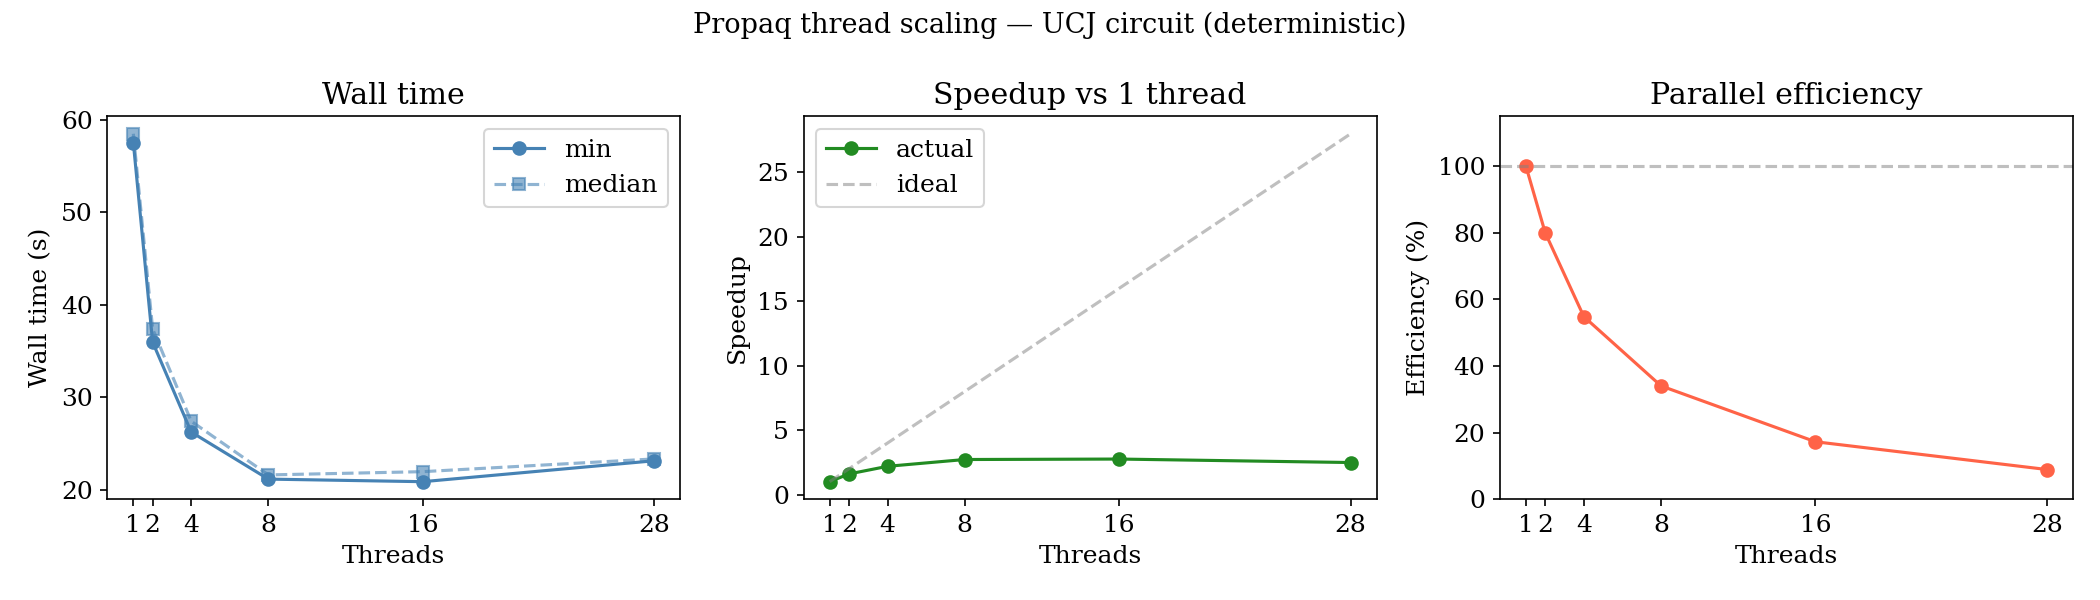
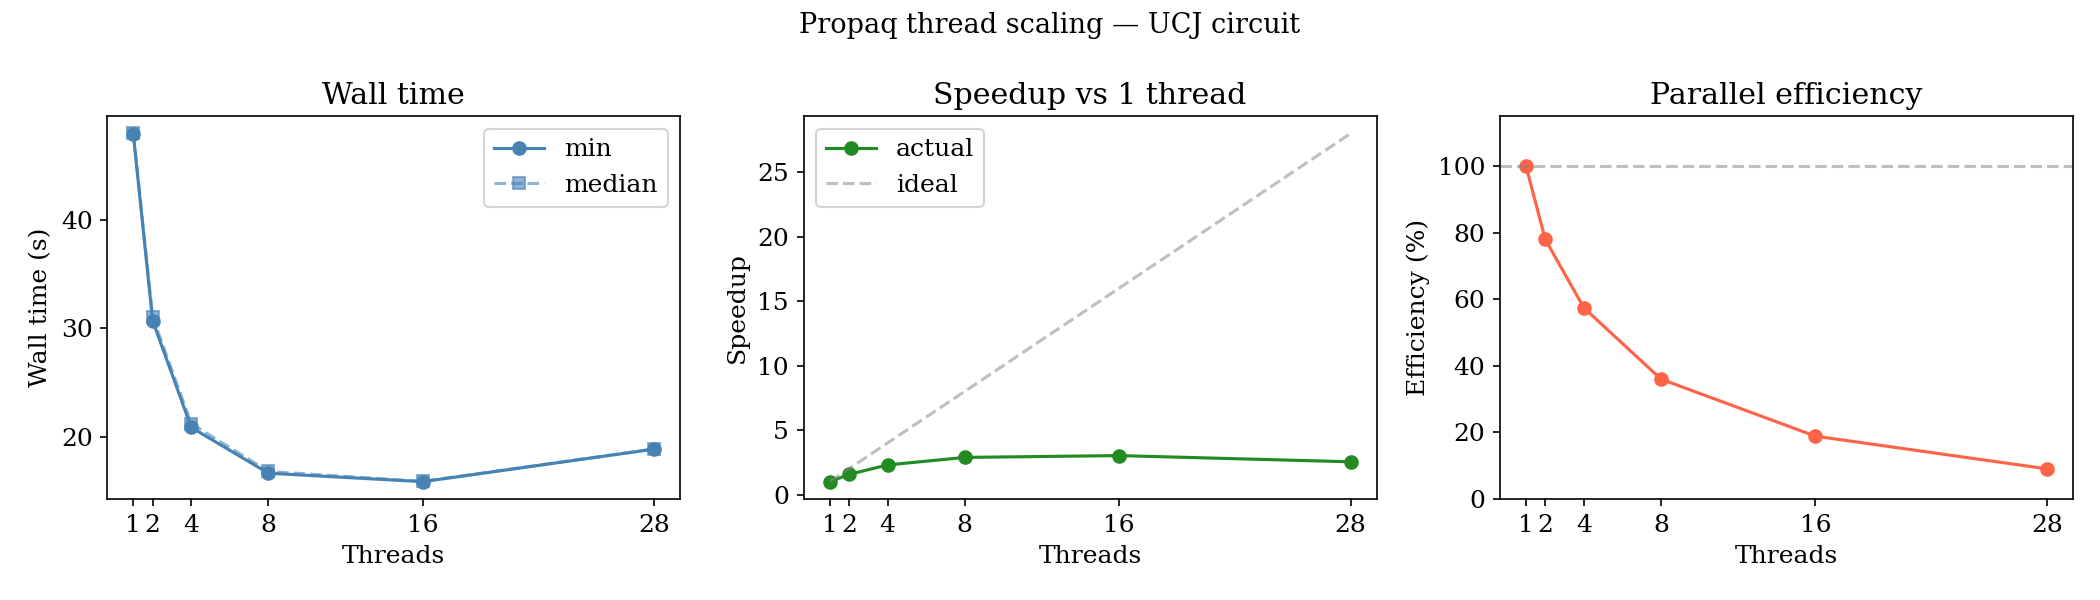
Small fix for compilation and better speed!

diff --git a/crates/propaq-core/src/propagator.rs b/crates/propaq-core/src/propagator.rs
@@ -88,7 +88,7 @@ impl<M: AbstractTerm> AbstractPropagator<M> {
         staging.reserve(evolved.terms.len());
 
         if evolved.terms.len() >= PARALLEL_THRESHOLD {
-            self.pool.install(|| {
+            staging = self.pool.install(|| {
                 evolved.terms
                     .par_iter_mut()
                     .filter_map(|(term, coeff)| {
@@ -100,7 +100,7 @@ impl<M: AbstractTerm> AbstractPropagator<M> {
                         *coeff *= cos_t;
                         Some((new_term, new_coeff))
                     })
-                    .collect_into_vec(&mut staging);
+                    .collect()
             });
         } else {
             for (term, coeff) in evolved.terms.iter_mut() {
